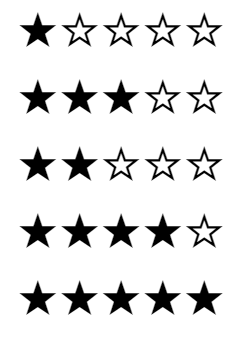
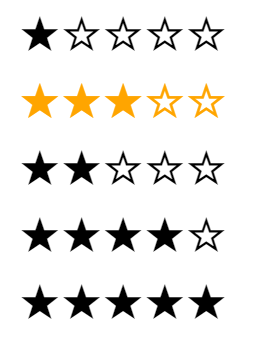
added color property

diff --git a/src/app/star-rating/star-rating.component.ts b/src/app/star-rating/star-rating.component.ts
@@ -1,4 +1,4 @@
-import { Component, OnInit, Input } from '@angular/core';
+import { Component, OnInit, Input, ViewChild, ElementRef } from '@angular/core';
 
 @Component({
   selector: 'star-rating',
@@ -6,11 +6,12 @@ import { Component, OnInit, Input } from '@angular/core';
   styleUrls: ['./star-rating.component.css']
 })
 export class StarRatingComponent implements OnInit {
+
   @Input() rating: number;
+  @Input() color: string;
 
   constructor() { }
 
-  ngOnInit() {
+  ngOnInit() {  
   }
-
 }

diff --git a/src/app/app.component.html b/src/app/app.component.html
@@ -1,5 +1,5 @@
 <star-rating [rating] = 1></star-rating><br/>
-<star-rating [rating] = 3></star-rating><br/>
+<star-rating [color] = "'Orange'" [rating] = 3></star-rating><br/>
 <star-rating [rating] = 2></star-rating><br/>
 <star-rating [rating] = 4></star-rating><br/>
 <star-rating [rating] = 5></star-rating>

diff --git a/src/app/star-rating/star-rating.component.html b/src/app/star-rating/star-rating.component.html
@@ -1,1 +1,3 @@
-<span [outerHTML] = "rating | starFormatter"></span>
+<span [style.color] = "color">
+    <span [outerHTML] = "rating | starFormatter"></span>
+</span>
